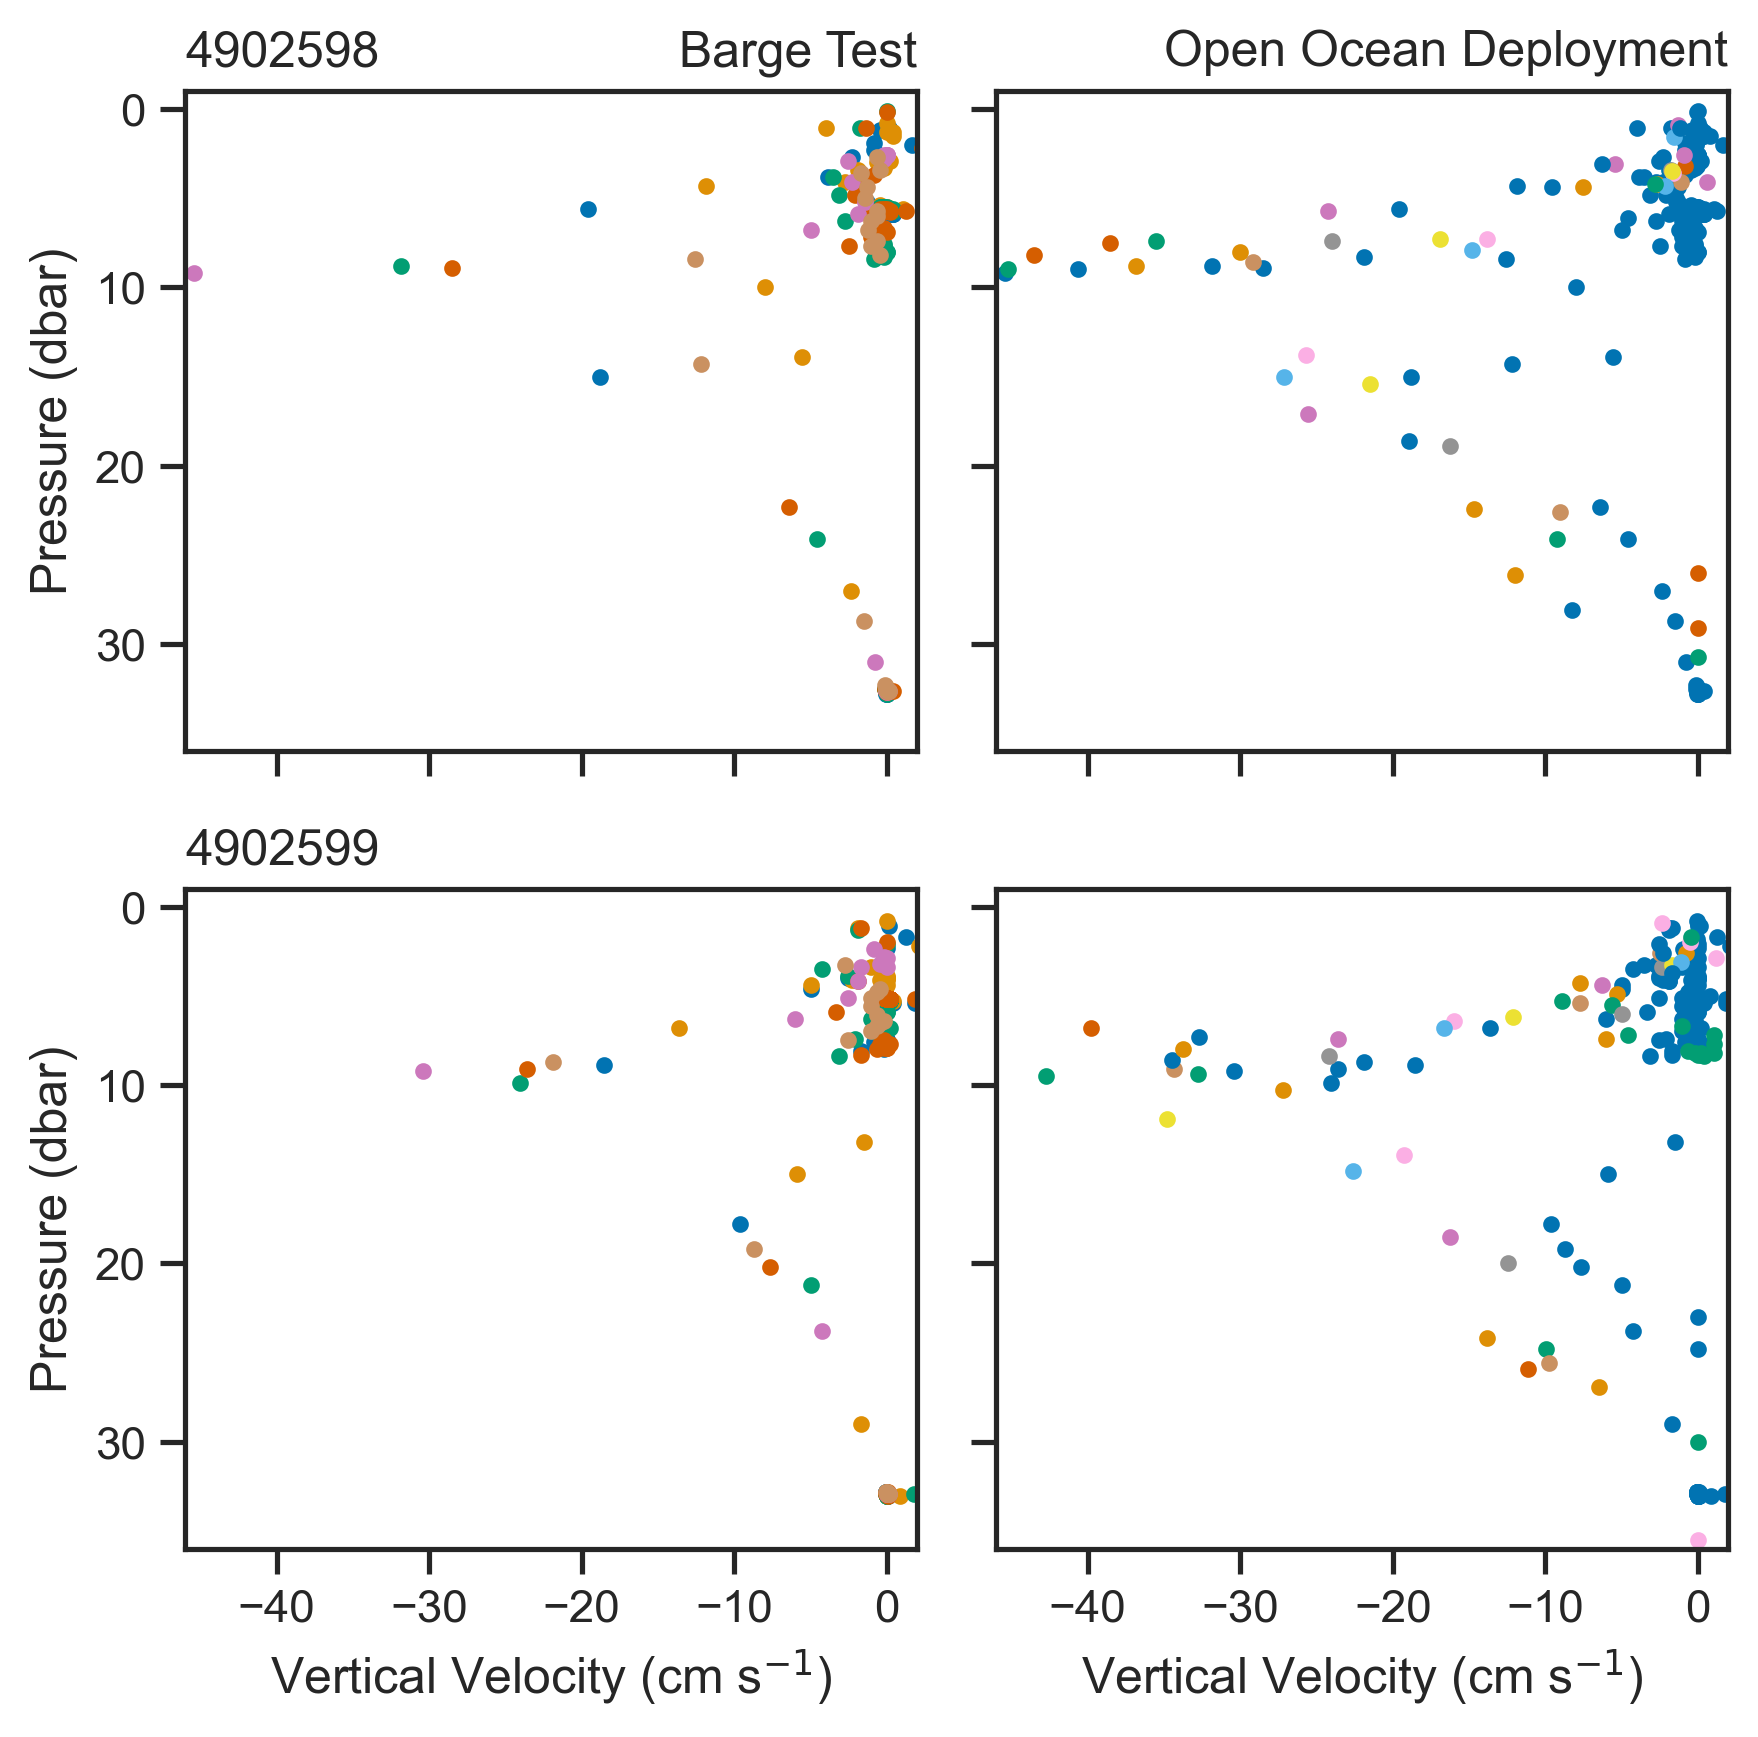
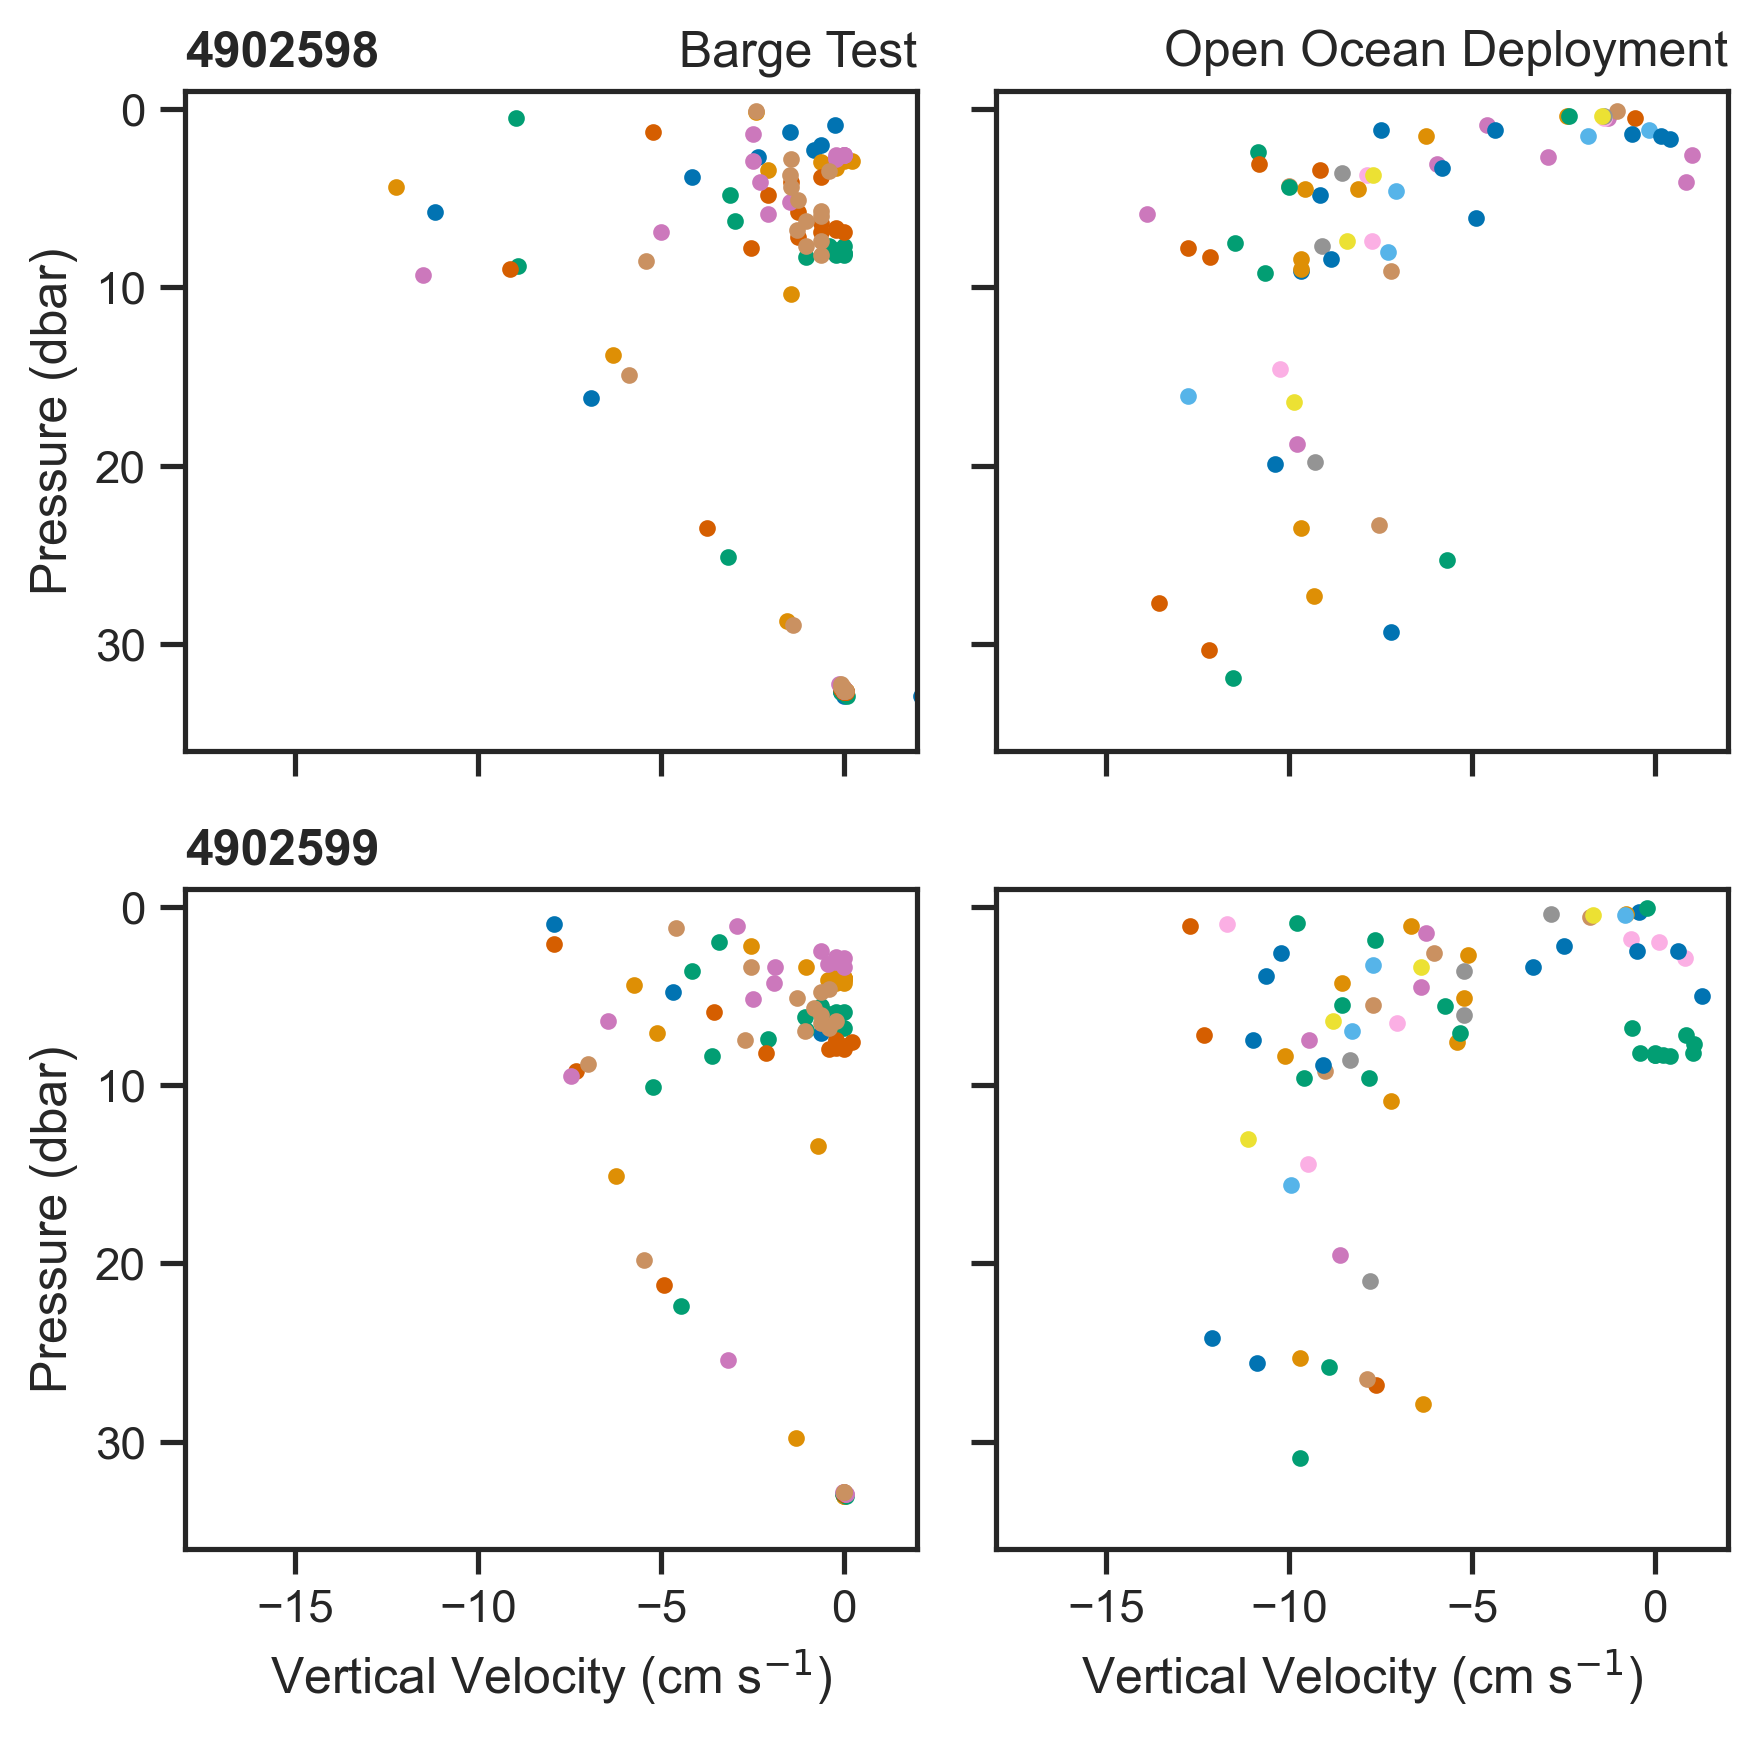
barge vertical velocities

diff --git a/src/provor_vert_vels.py b/src/provor_vert_vels.py
@@ -20,27 +20,39 @@ wmo_numbers = [
 fig, axes = plt.subplots(2, 2, sharex=True, sharey=True)
 for imei, wmo, axes_row in zip(imei_numbers, wmo_numbers, axes):
 
-    oxy_test = pd.read_hdf(Path(f'../data/provor/{imei}') / f'{wmo}_optode.h5')
-    eco_test = pd.read_hdf(Path(f'../data/provor/{imei}') / f'{wmo}_ecopuck.h5')
+    oxy_test = pd.read_hdf(Path(f'../data/provor/{imei}') / f'{wmo}_optode_test.h5')
+    eco_test = pd.read_hdf(Path(f'../data/provor/{imei}') / f'{wmo}_ecopuck_test.h5')
 
     oxy_full = pd.read_hdf(Path(f'../data/provor/{imei}') / f'{wmo}_optode_full.h5')
     eco_full = pd.read_hdf(Path(f'../data/provor/{imei}') / f'{wmo}_ecopuck_full.h5')
     
-    for df, ax, ix in zip([eco_test, eco_full], axes_row, ['Profile number', 'Cycle number']):
-        td = np.array([t.total_seconds() for t in df['1st sample date'].diff()])
-        tt = df.loc[td != 0]
-        tt = tt.loc[tt['Pressure (dbar)'] < 50]
+
+    for df, ax, ix in zip([oxy_test, oxy_full], axes_row, ['Profile number', 'Cycle number']):
+        tt = df.loc[df['time'].notna()]
+        tt = tt.loc[tt['Phase number'] != 5]
         for p in tt[ix].unique():
             sub = tt.loc[tt[ix] == p]
             speed = np.array([z/t.total_seconds() for z, t in zip(sub['Pressure (dbar)'].diff(), sub['1st sample date'].diff())])
             ax.plot(speed*100, sub['Pressure (dbar)'], '.')
+
+            if ix == 'Profile number':
+                ifig, iax = plt.subplots()
+                iax.plot(speed*100, sub['Pressure (dbar)'], '.')
+                iax.set_ylim((36, -1))
+                iax.set_xlim((-18, 2))
+                iax.set_ylabel('Pressure (dbar)')
+                iax.set_xlabel('Vertical Velocity (cm s$^{-1}$)')
+                iax.set_title(f'{wmo} profile {p}')
+                ifig.set_size_inches(ifig.get_figwidth()/2, ifig.get_figheight())
+                ifig.savefig(f'../figures/provor/vel_profiles/oxy_{wmo}_{p:02d}.png', bbox_inches='tight', dpi=300)
+                plt.close(ifig)
         ax.set_ylim((36, -1))
-        ax.set_xlim((-46, 2))
+        ax.set_xlim((-18, 2))
     axes_row[0].set_ylabel('Pressure (dbar)')
-    axes_row[0].set_title(f'{wmo}', loc='left')
+    axes_row[0].set_title(f'{wmo}', loc='left', fontweight='bold')
 [ax.set_xlabel('Vertical Velocity (cm s$^{-1}$)') for ax in axes[1,:]]
 axes[0,0].set_title('Barge Test', loc='right')
 axes[0,1].set_title('Open Ocean Deployment', loc='right')
 fig.set_size_inches(fig.get_figwidth(), 1.5*fig.get_figheight())
 fig.tight_layout()
-fig.savefig('../figures/provor/vert_vel_eco_final.png', bbox_inches='tight', dpi=300)
+fig.savefig('../figures/provor/vert_vel_oxy_final.png', bbox_inches='tight', dpi=300)

diff --git a/src/plot_cleaned_provor_data.py b/src/plot_cleaned_provor_data.py
@@ -18,12 +18,16 @@ wmo_numbers = [
 
 for imei, wmo in zip(imei_numbers, wmo_numbers):
 
-    ctd = pd.read_hdf(Path(f'../data/provor/{imei}') / f'{wmo}_ctd.h5')
-    oxy = pd.read_hdf(Path(f'../data/provor/{imei}') / f'{wmo}_optode.h5')
-    eco = pd.read_hdf(Path(f'../data/provor/{imei}') / f'{wmo}_ecopuck.h5')
+    ctd = pd.read_hdf(Path(f'../data/provor/{imei}') / f'{wmo}_ctd_test.h5')
+    oxy = pd.read_hdf(Path(f'../data/provor/{imei}') / f'{wmo}_optode_test.h5')
+    eco = pd.read_hdf(Path(f'../data/provor/{imei}') / f'{wmo}_ecopuck_test.h5')
 
     fig, axes = plt.subplots(2, 2, sharey=True)
     deg = chr(176)
+    ctd = ctd.loc[ctd['Phase number'] != 5]
+    oxy = oxy.loc[oxy['Phase number'] != 5]
+    eco = eco.loc[eco['Phase number'] != 5]
+    ctd[f'Temperature ({deg}C)'] = ctd[ctd.columns[5]]
     sns.scatterplot(x=f'Temperature ({deg}C)', y='Pressure (dbar)', hue='Profile number', data=ctd, ax=axes[0,0], palette='colorblind', marker='.', linewidth=0)
     sns.scatterplot(x='Salinity (PSU)', y='Pressure (dbar)', hue='Profile number', data=ctd, ax=axes[0,1], palette='colorblind', legend=False, marker='.', linewidth=0)
     sns.scatterplot(x=f'C1 phase ({deg})', y='Pressure (dbar)', hue='Profile number', data=oxy, ax=axes[1,0], palette='colorblind', legend=False, marker='.', linewidth=0)
@@ -47,6 +51,7 @@ for imei, wmo in zip(imei_numbers, wmo_numbers):
     axes[1,0].set_ylabel('Pressure (dbar)')
     axes[1,1].set_xlabel('Channel 1 (counts)', loc='left')
     axc2.set_xlabel('Channel 2 (counts)', loc='right')
+    fig.set_size_inches(fig.get_figwidth(), 1.5*fig.get_figheight())
     fig.tight_layout()
 
     fig.savefig(Path(f'../figures/provor/{wmo}_barge_profiles.png'), bbox_inches='tight', dpi=350)

diff --git a/src/clean_provor_barge_data.py b/src/clean_provor_barge_data.py
@@ -14,9 +14,9 @@ wmo_numbers = [
 
 rudics_path = Path('../data/provor')
 data_files = [
-    'CTD Measures (Average).csv',
-    'DO Measures (Raw data).csv',
-    'ECO2 Measures (Raw data).csv',
+    'CTD Measures (Average) deploy.csv',
+    'DO Measures (Raw data) deploy.csv',
+    'ECO2 Measures (Raw data) deploy.csv',
 ]
 sensors = [
     'ctd',
@@ -26,6 +26,7 @@ sensors = [
 
 for imei, wmo in zip(imei_numbers, wmo_numbers):
     for f, s in zip(data_files, sensors):
+        print(rudics_path / imei / f)
         df = pd.read_csv(
             rudics_path / imei / f,
             sep=';', encoding='unicode-escape',
@@ -33,13 +34,14 @@ for imei, wmo in zip(imei_numbers, wmo_numbers):
         )
         if s == 'ctd':
             df = df.rename(columns={'Mean pressure (dbar)':'Pressure (dbar)'})
+        unfilled_time = df['1st sample date']
+        df = df.fillna(method='ffill')
         df = df[(df['Pressure (dbar)'].notna()) & (df['Pressure (dbar)'] > 0)]
         for c in df.columns:
             if 'Unnamed' in c:
                 df = df.drop(c, axis=1)
-        df = df.backfill()
-        df = df[df['Profile number'].notna()]
         df = df.astype({'Cycle number':int, 'Profile number':int, 'Phase number':int})
         df['1st sample date'] = pd.to_datetime(df['1st sample date'])
+        df['time'] = pd.to_datetime(unfilled_time)
         df.to_hdf(Path(f'../data/provor/{imei}') / f'{wmo}_{s}_full.h5', key='df', mode='w')
         df.to_csv(Path(f'../data/provor/{imei}') / f'{wmo}_{s}_full.csv')
